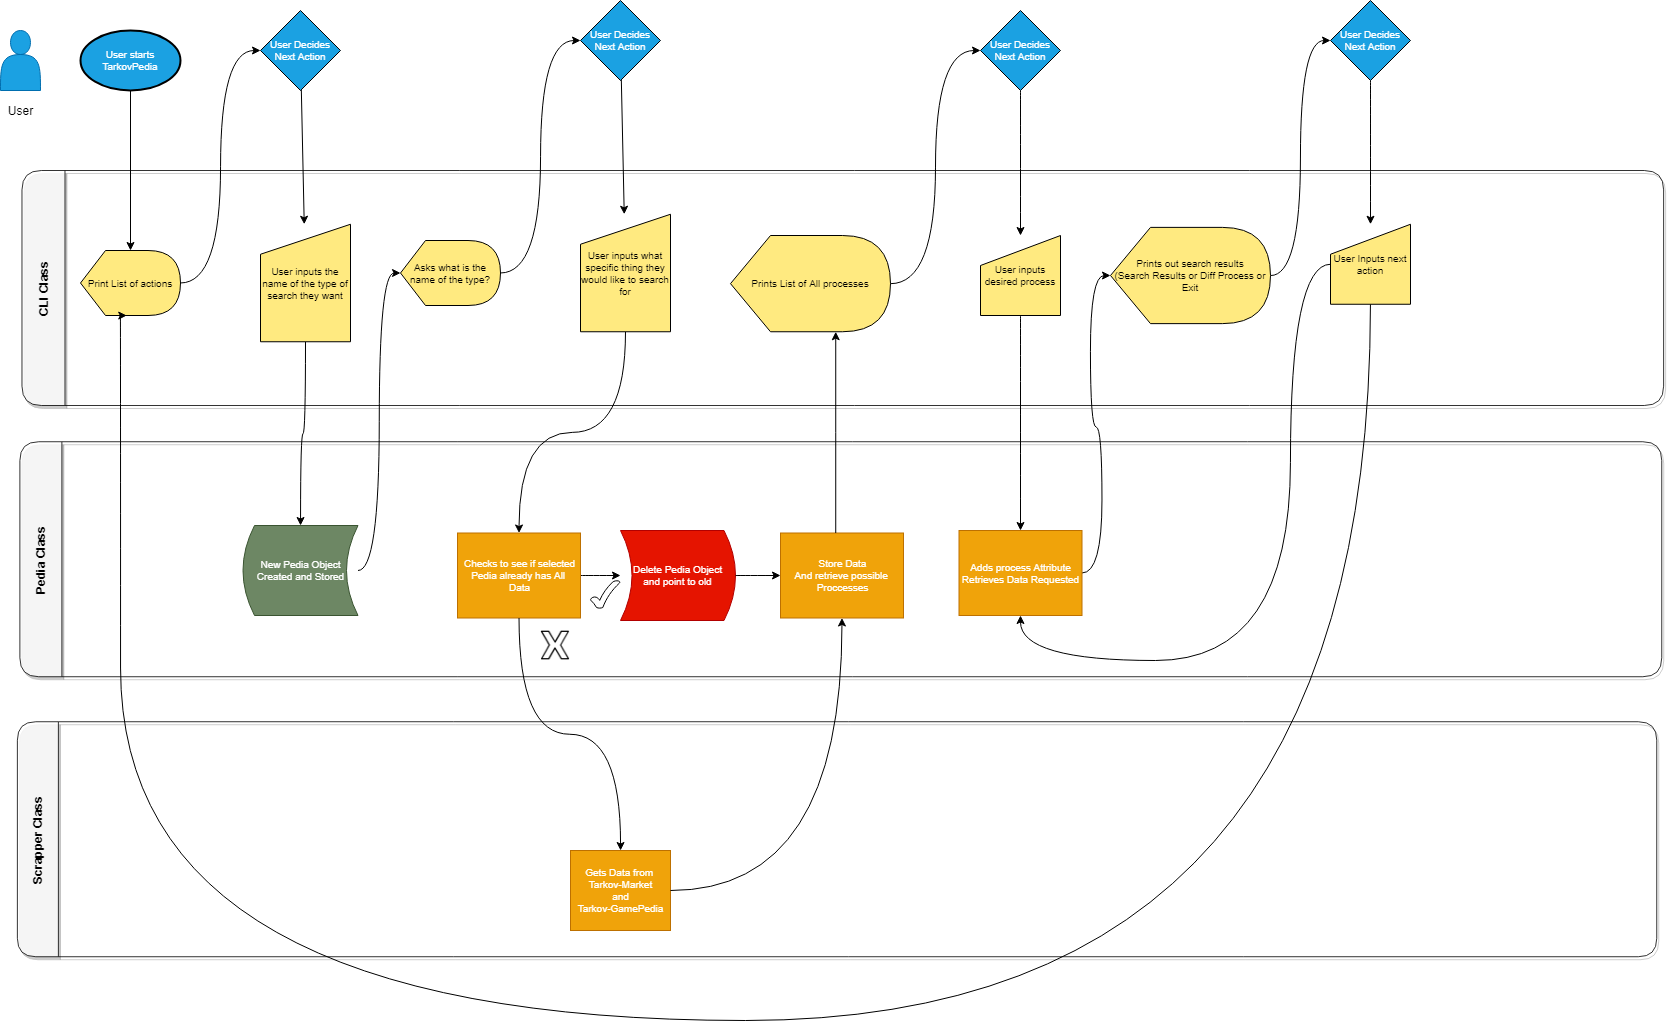
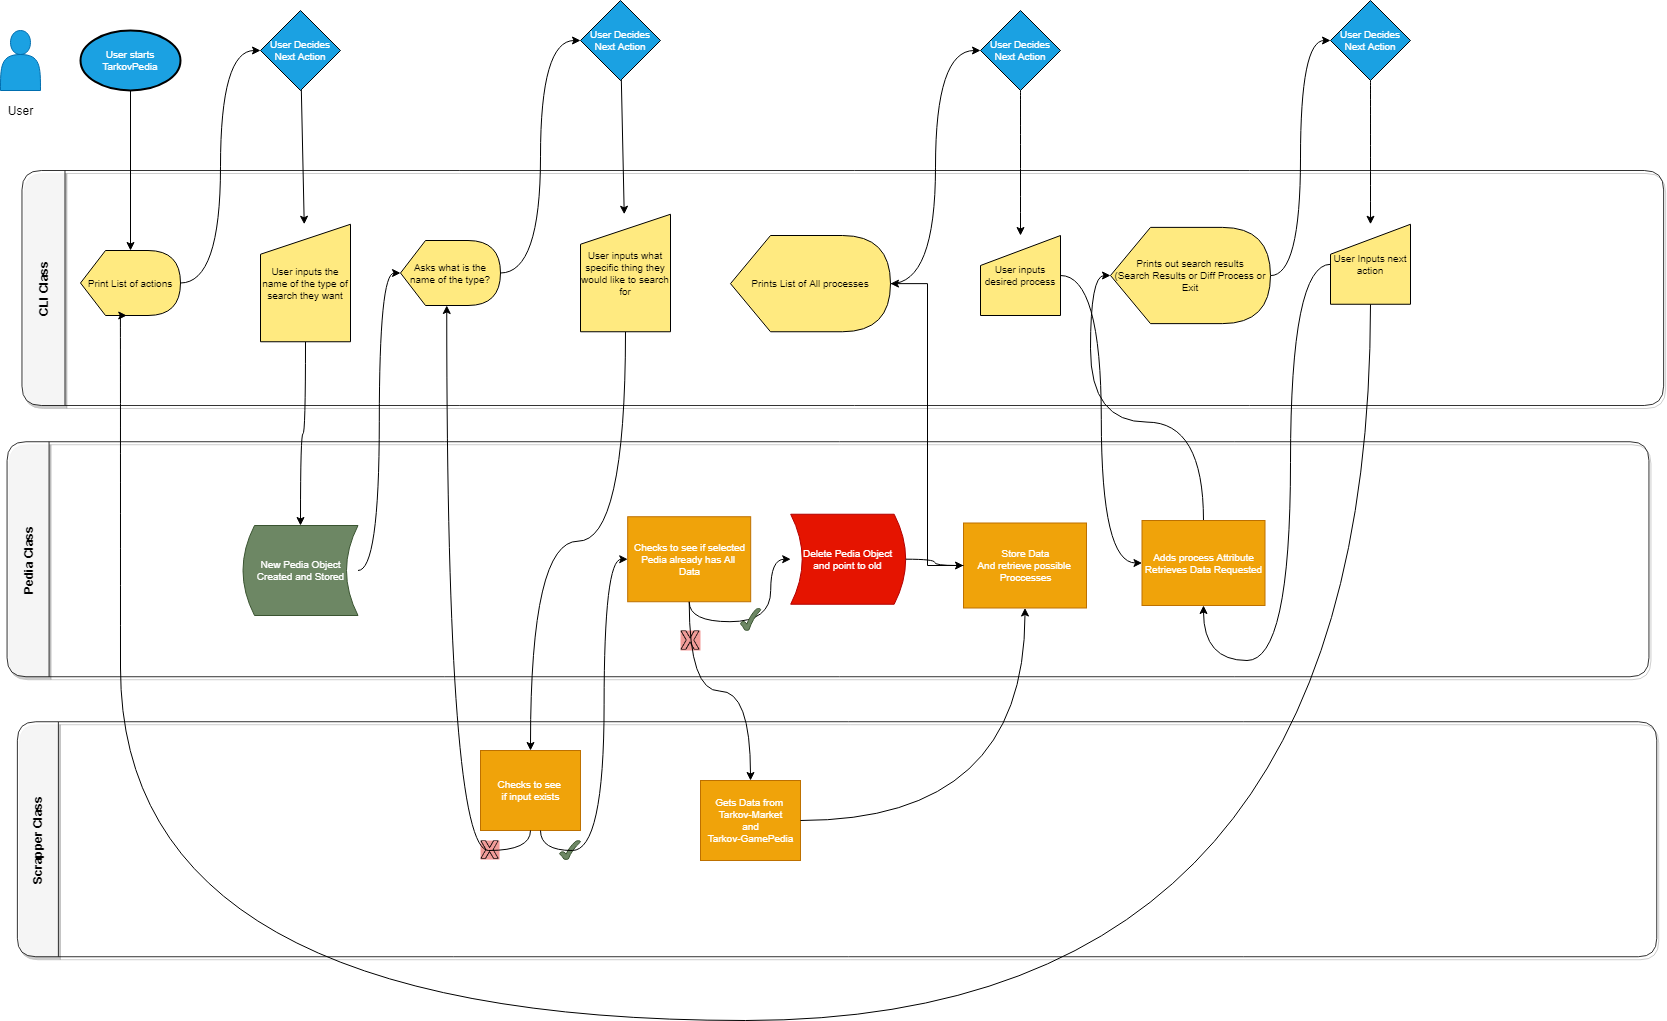
Edited the flow diagram to better represent what the code will do. Added to the scrapper class a functionality to check if a search exist

diff --git a/lib/tarkov_pedia/cli.rb b/lib/tarkov_pedia/cli.rb
@@ -136,10 +136,5 @@ class TarkovPedia::CLI
         process = self.list_processes(interest, name)
         results(interest, name, process)
         action?(interest, name)
-
-
-       
-        
-
     end
 end

diff --git a/Notes.md b/Notes.md
@@ -95,3 +95,5 @@ Person puts in process
 Person chooses what to do after they get their results
 --Creates a loop until they exit
 
+Need to fix Flow Chart!
+
